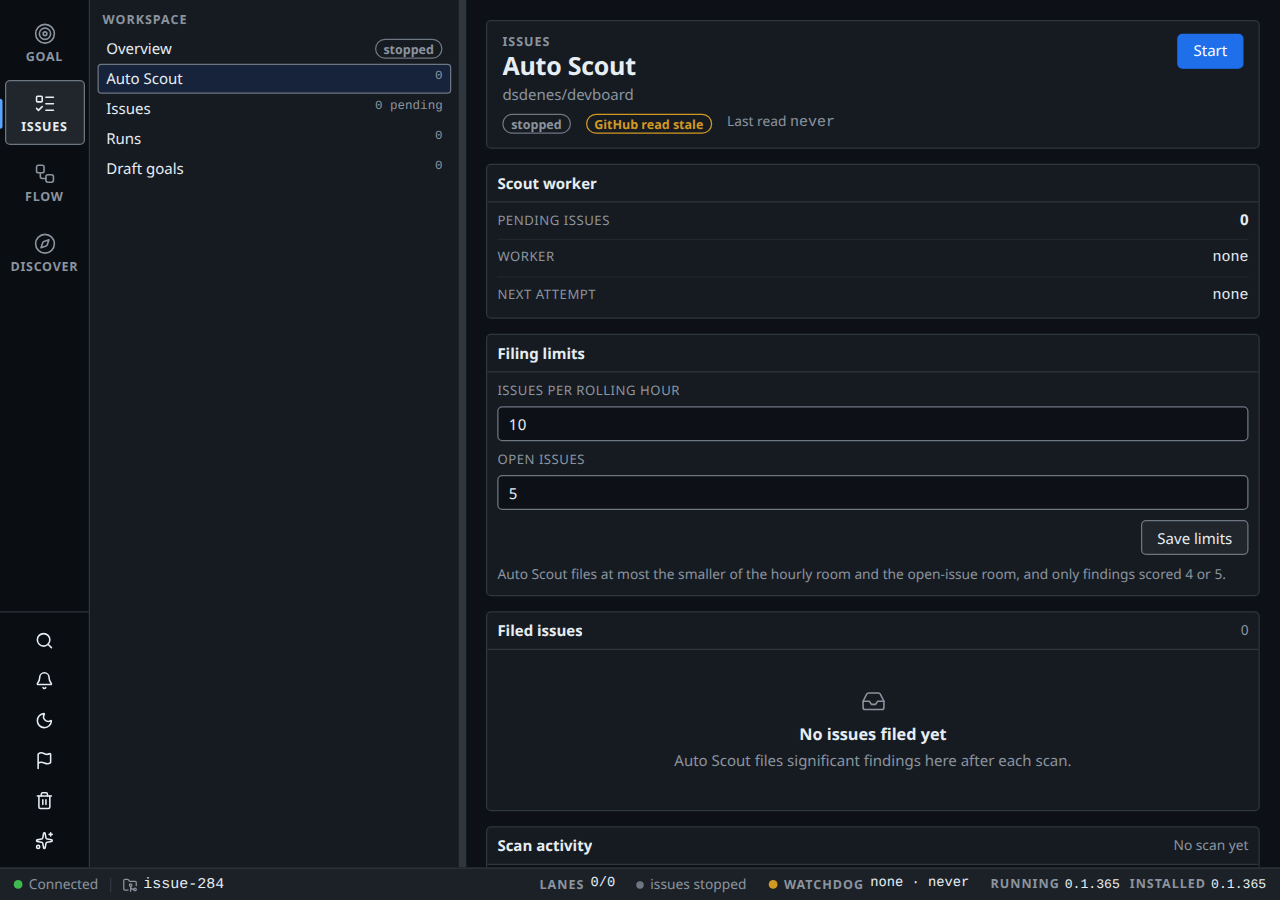
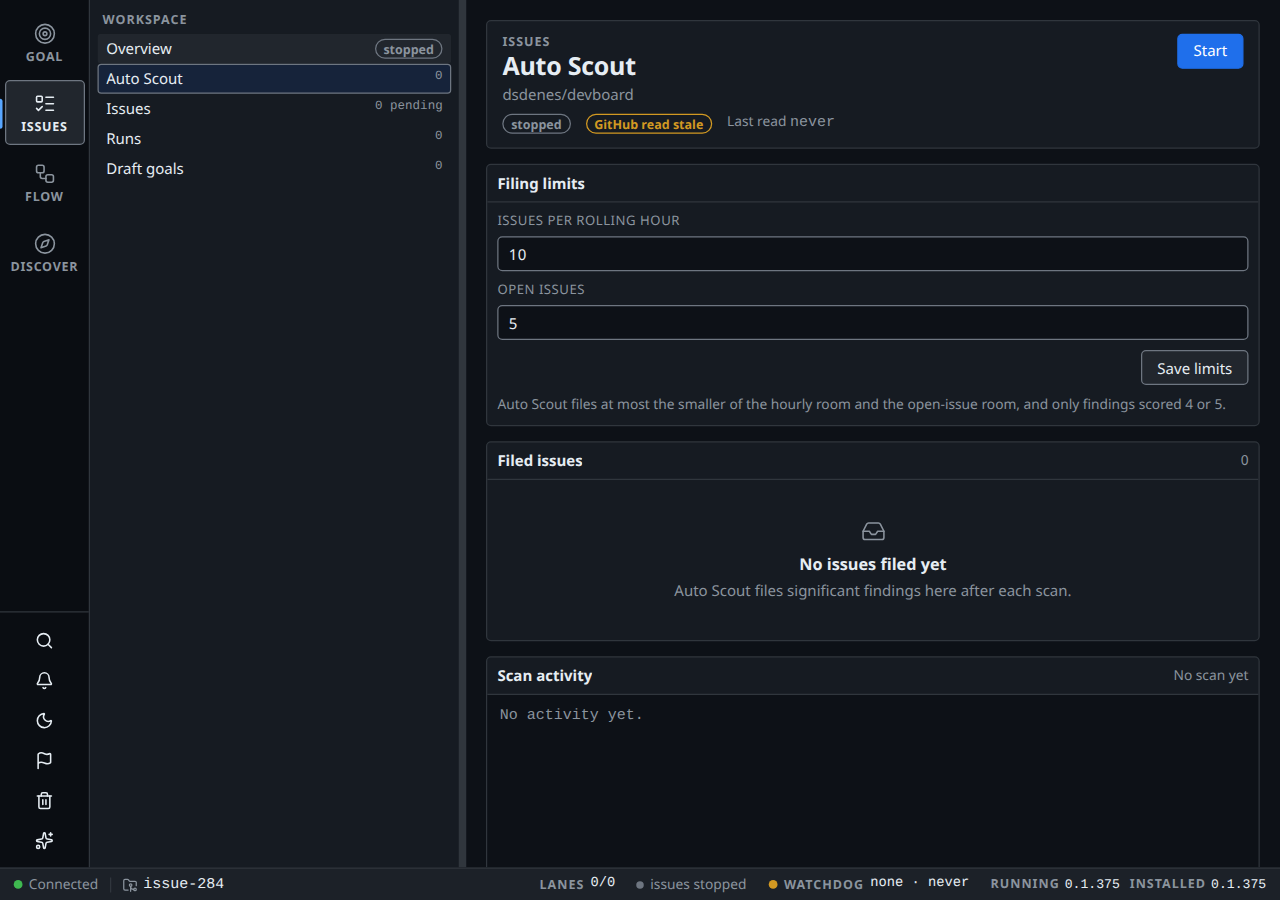
docs(scout): refresh empty-state evidence after the main merge

diff --git a/.devboard/.design/scout-filed-issues-empty/validation.md b/.devboard/.design/scout-filed-issues-empty/validation.md
@@ -122,9 +122,11 @@ Auto Scout files significant findings here after each scan.
   - Empty/stopped, dark, 1024×720: `.devboard/.design/scout-filed-issues-empty/empty-1024-dark.png`
   - Empty/stopped, light, 1024×720: `.devboard/.design/scout-filed-issues-empty/empty-1024-light.png`
   - Populated, failed read, limits save, and worker start are exercised by `bun run verify:scout`.
-- Measured result at 1024×720: panel and stack centers both at x=699; natural stack width 317.8px
-  inside the 360px cap; icon 20×20 with `aria-hidden="true"` and `rgb(139,148,158)`; title 13px/600
-  in `rgb(230,237,243)`; copy 12px/400 in `rgb(139,148,158)`; `scrollWidth === clientWidth === 1024`.
+- Measured result at 1024×720 (after merging the upstream worker-facts removal): panel 616.9×128,
+  stack centers and panel centers both at x=699 / y=448; natural stack width 317.8px inside the
+  360px cap; icon 20×20 with `aria-hidden="true"` and `rgb(139,148,158)`; title 13px/600 in
+  `rgb(230,237,243)`; copy 12px/400 in `rgb(139,148,158)`; `scrollWidth === clientWidth === 1024`.
+  Light theme keeps the same geometry with `rgb(31,35,40)` title and `rgb(87,96,106)` icon/copy.
 - Console/network: zero console entries and zero failed requests among 29 observed requests on the
   Auto Scout page at both viewports.
 - Checks: `bun run check` — 0 errors, 0 warnings; `bun test` — 604 pass, 0 fail across 46 files;
